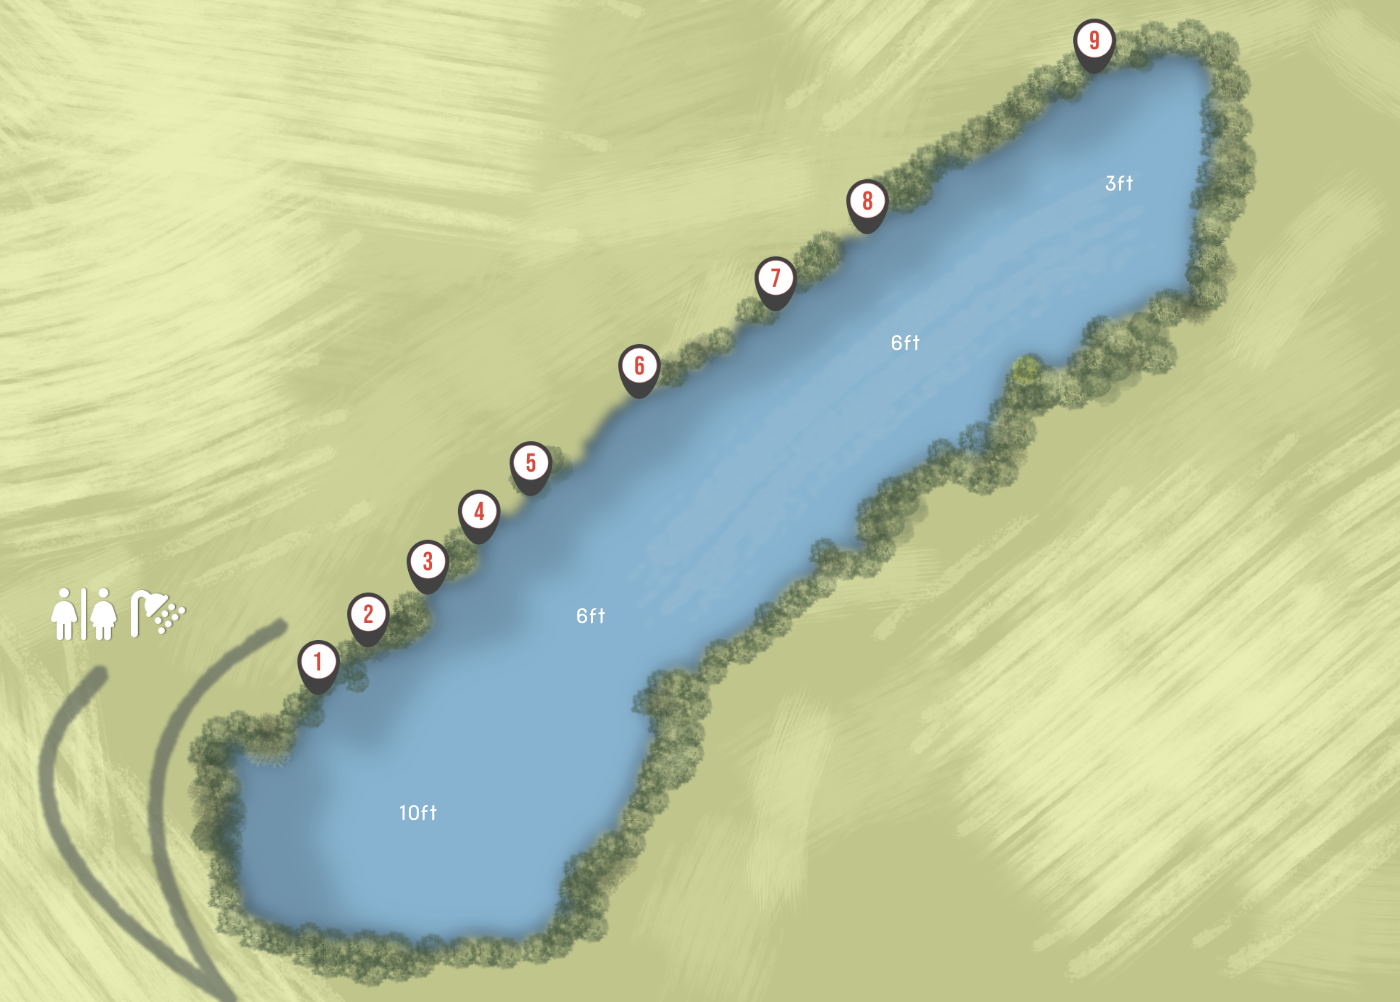
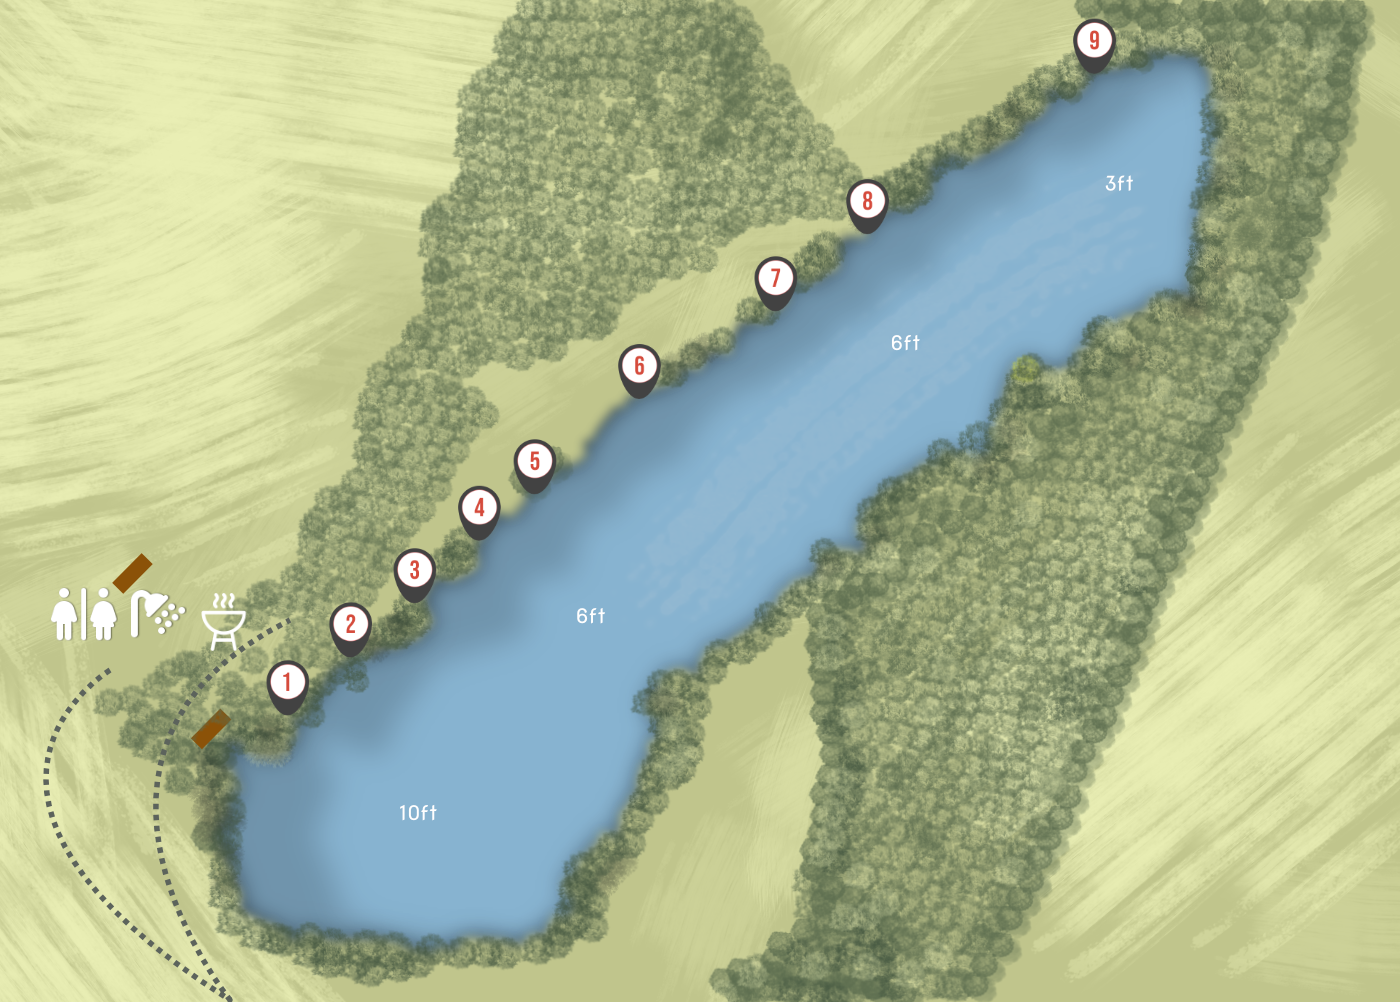
code

Changed region(s): [[0.4914, 0.0, 0.9829, 1.0], [0.0307, 0.0, 0.6143, 1.0], [0.0614, 0.5569, 0.1229, 0.5878]]

diff --git a/public/css/app.css b/public/css/app.css
@@ -9008,7 +9008,6 @@ h4 {
   display: block;
   background-color: #FFFFFF;
   width: 100%;
-  margin-bottom: -1px;
 }
 
 .divider-curve svg {
@@ -9953,4 +9952,8 @@ table i {
 .price-block-content-alt i {
   margin: 8px 20px 0 0;
   color: #9ab495;
+}
+
+.slider-container {
+  margin-top: 50px;
 }

diff --git a/resources/css/app.scss b/resources/css/app.scss
@@ -428,8 +428,6 @@ h4 {
 	display: block;
 	background-color: #FFFFFF;
 	width: 100%;
-	margin-bottom: -1px;
-
 }
 
 .divider-curve svg {
@@ -1305,4 +1303,8 @@ table i {
 .price-block-content-alt i {
 	margin: 8px 20px 0 0;
 	color: #9ab495;
+}
+
+.slider-container {
+	margin-top: 50px;
 }

diff --git a/resources/views/pages/index.blade.php b/resources/views/pages/index.blade.php
@@ -141,7 +141,7 @@
 </div>
 
 <div class="subscribe-curve">
-<svg xmlns="http://www.w3.org/2000/svg" viewBox="0 0 1440 315">
+<svg xmlns="http://www.w3.org/2000/svg" viewBox="0 0 1440 316">
   <path fill="#232323" fill-opacity="1" d="M0,160L120,170.7C240,181,480,203,720,202.7C960,203,1200,181,1320,170.7L1440,160L1440,320L1320,320C1200,320,960,320,720,320C480,320,240,320,120,320L0,320Z"></path>
 </svg>
 </div>

diff --git a/resources/views/livewire/feature-gallery.blade.php b/resources/views/livewire/feature-gallery.blade.php
@@ -1,5 +1,5 @@
 <div>
-    <div class="hide-for-large" wire:ignore>
+    <div class=" slider-container hide-for-large" wire:ignore>
         <section class="horizSlider">
         @foreach($thumbnails as $image)
           <div class="slide">
